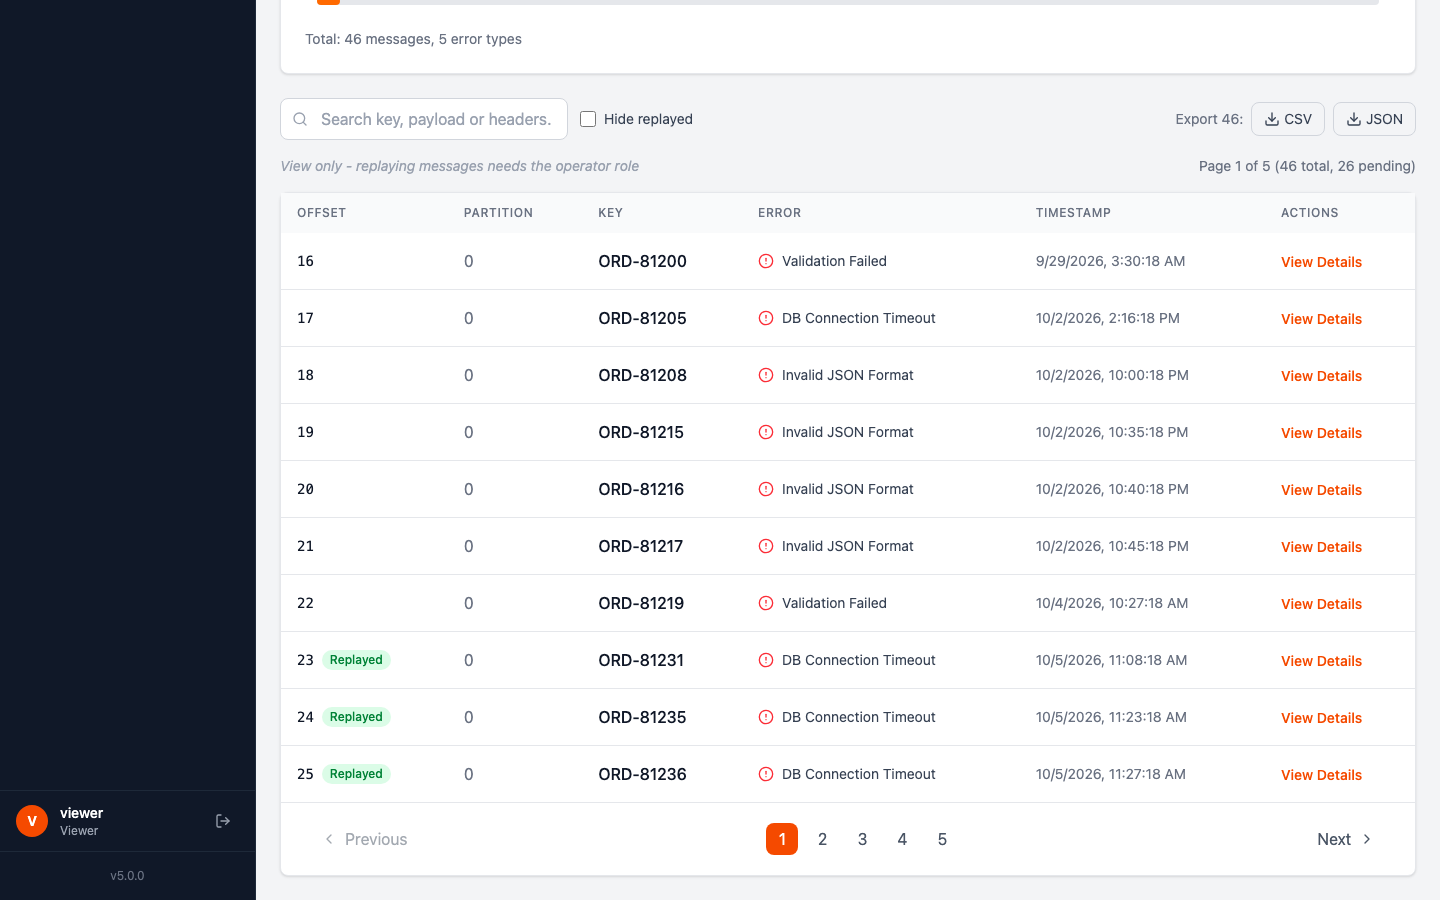
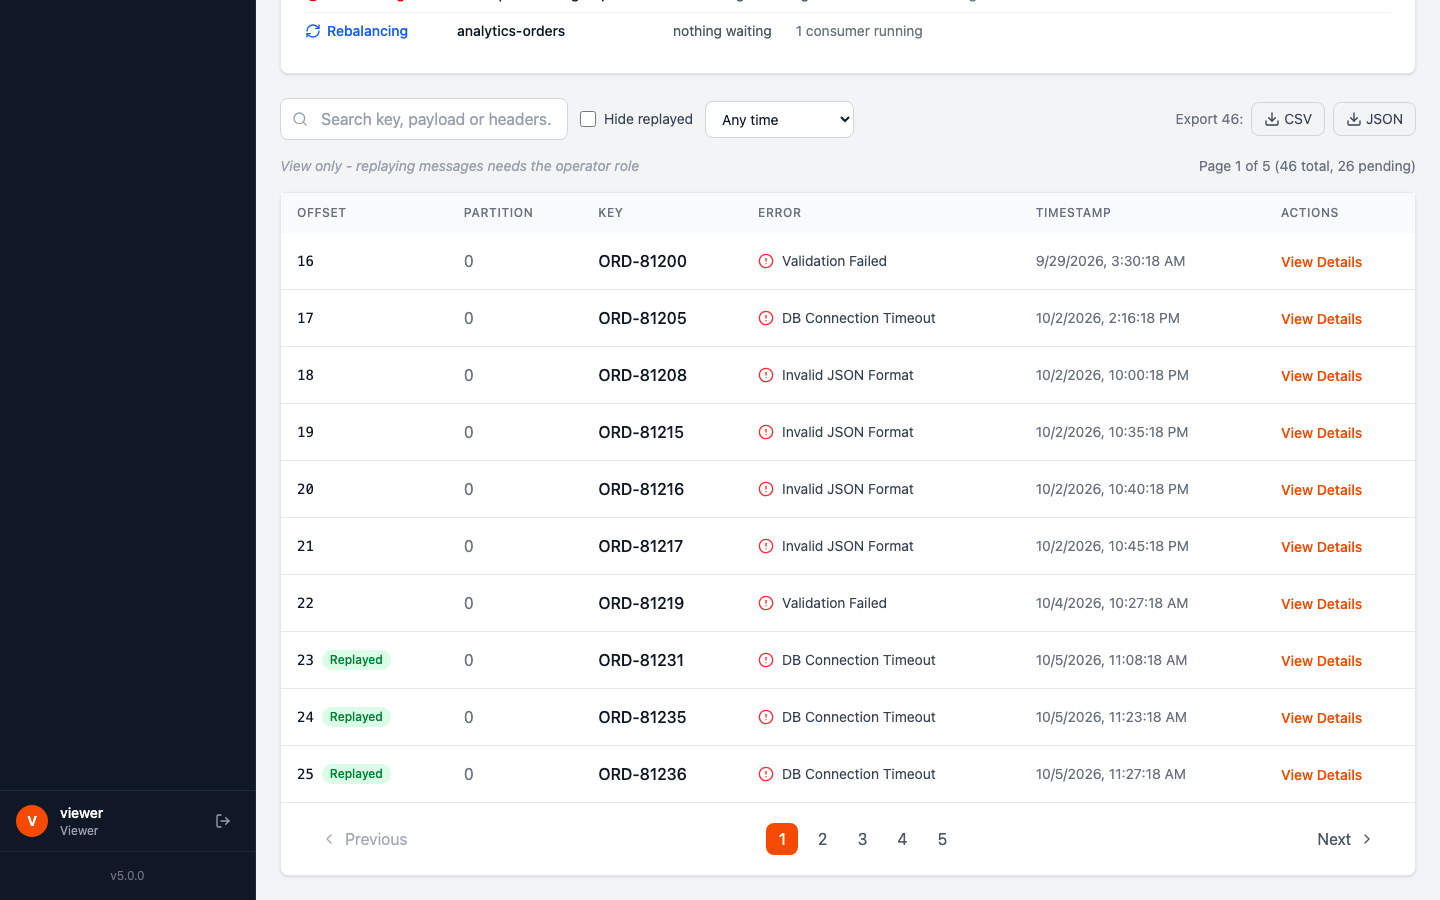
feat: time filter on the message list, click the trend chart to use it

Changed region(s): [[0.2188, 0.0, 0.9688, 0.0622], [0.5, 0.1244, 0.5312, 0.1556]]

diff --git a/frontend/src/pages/DlqTopicDetailPage.tsx b/frontend/src/pages/DlqTopicDetailPage.tsx
@@ -24,6 +24,40 @@ import {
   Download
 } from 'lucide-react';
 
+type TimePreset = 'any' | '1h' | '24h' | '7d' | 'custom';
+
+const TIME_PRESETS: { value: TimePreset; label: string; hours?: number }[] = [
+  { value: 'any', label: 'Any time' },
+  { value: '1h', label: 'Last hour', hours: 1 },
+  { value: '24h', label: 'Last 24 hours', hours: 24 },
+  { value: '7d', label: 'Last 7 days', hours: 24 * 7 },
+  { value: 'custom', label: 'Custom range...' },
+];
+
+const windowFormat = new Intl.DateTimeFormat(undefined, {
+  day: 'numeric', month: 'short', hour: '2-digit', minute: '2-digit', hourCycle: 'h23',
+});
+
+// "5 Oct, 11:00 – 5 Oct, 12:00", "since ..." or "before ..."
+function describeWindow(from: string | null, to: string | null): string {
+  if (from && to) return `${windowFormat.format(new Date(from))} – ${windowFormat.format(new Date(to))}`;
+  if (from) return `since ${windowFormat.format(new Date(from))}`;
+  return `before ${windowFormat.format(new Date(to!))}`;
+}
+
+// ISO time -> the value a datetime-local input wants (local time, no seconds)
+function toLocalInput(iso: string | null): string {
+  if (!iso) return '';
+  const date = new Date(iso);
+  const pad = (n: number) => String(n).padStart(2, '0');
+  return `${date.getFullYear()}-${pad(date.getMonth() + 1)}-${pad(date.getDate())}T${pad(date.getHours())}:${pad(date.getMinutes())}`;
+}
+
+function fromLocalInput(value: string): string | null {
+  const date = new Date(value);
+  return value && !Number.isNaN(date.getTime()) ? date.toISOString() : null;
+}
+
 export function DlqTopicDetailPage() {
   const { id } = useParams<{ id: string }>();
   const queryClient = useQueryClient();
@@ -40,7 +74,17 @@ export function DlqTopicDetailPage() {
   const [errorType, setErrorType] = useState<string | null>(null);
   const [pendingOnly, setPendingOnly] = useState(false);
   const searchTimer = useRef<number | undefined>(undefined);
-  const hasFilters = search !== '' || errorType !== null || pendingOnly;
+  // Time window on when a message landed in the DLQ (ISO times; null = open on that side)
+  const [timePreset, setTimePreset] = useState<TimePreset>('any');
+  const [timeFrom, setTimeFrom] = useState<string | null>(null);
+  const [timeTo, setTimeTo] = useState<string | null>(null);
+  const timeWindowInvalid = !!timeFrom && !!timeTo && timeFrom >= timeTo;
+  // A window that makes no sense is not sent; the bar says what is wrong instead
+  const from = timeWindowInvalid ? undefined : timeFrom ?? undefined;
+  const to = timeWindowInvalid ? undefined : timeTo ?? undefined;
+  const hasTimeWindow = timeFrom !== null || timeTo !== null;
+  const hasFilters = search !== '' || errorType !== null || pendingOnly || hasTimeWindow;
+  const filtersRef = useRef<HTMLDivElement>(null);
 
   // Who reads the source topic: checked before replaying, so nobody replays into a stopped service unawares
   const { data: sourceConsumers } = useSourceConsumers(id);
@@ -52,11 +96,13 @@ export function DlqTopicDetailPage() {
   });
 
   const { data: messagesData, isLoading, isFetching, refetch } = useQuery({
-    queryKey: ['dlqMessages', id, page, search, errorType, pendingOnly],
+    queryKey: ['dlqMessages', id, page, search, errorType, pendingOnly, from, to],
     queryFn: () => dlqTopicsApi.getMessages(id!, page, 10, {
       search,
       errorType: errorType ?? undefined,
       pendingOnly,
+      from,
+      to,
     }),
     enabled: !!id,
     // Keep showing the current page while the next one (or a new search) loads
@@ -80,6 +126,31 @@ export function DlqTopicDetailPage() {
     applyFilters(() => setErrorType(current => (current === type ? null : type)));
   };
 
+  const setTimeWindow = (preset: TimePreset, newFrom: string | null, newTo: string | null) => {
+    applyFilters(() => {
+      setTimePreset(preset);
+      setTimeFrom(newFrom);
+      setTimeTo(newTo);
+    });
+  };
+
+  const handleTimePresetChange = (preset: TimePreset) => {
+    const hours = TIME_PRESETS.find((p) => p.value === preset)?.hours;
+    if (hours) {
+      setTimeWindow(preset, new Date(Date.now() - hours * 3_600_000).toISOString(), null);
+    } else if (preset === 'custom') {
+      setTimeWindow('custom', timeFrom, timeTo); // keep what is set and show the two boxes
+    } else {
+      setTimeWindow('any', null, null);
+    }
+  };
+
+  // Clicking a period in the trend chart lists the messages that failed in it
+  const handleSelectPeriod = (periodFrom: Date, periodTo: Date) => {
+    setTimeWindow('custom', periodFrom.toISOString(), periodTo.toISOString());
+    filtersRef.current?.scrollIntoView({ behavior: 'smooth', block: 'start' });
+  };
+
   const clearFilters = () => {
     window.clearTimeout(searchTimer.current);
     setSearchInput('');
@@ -87,6 +158,9 @@ export function DlqTopicDetailPage() {
       setSearch('');
       setErrorType(null);
       setPendingOnly(false);
+      setTimePreset('any');
+      setTimeFrom(null);
+      setTimeTo(null);
     });
   };
 
@@ -214,7 +288,7 @@ export function DlqTopicDetailPage() {
         </Link>
 
         {/* Trend: pending messages and new failures over time */}
-        {id && <DlqTrendCard dlqTopicId={id} />}
+        {id && <DlqTrendCard dlqTopicId={id} onSelectPeriod={handleSelectPeriod} />}
 
         {/* Error Breakdown */}
         {errorBreakdown && errorBreakdown.errorBreakdown.length > 0 && (
@@ -272,7 +346,7 @@ export function DlqTopicDetailPage() {
         )}
 
         {/* Filters */}
-        <div className="flex flex-wrap items-center gap-3 mb-4">
+        <div ref={filtersRef} className="flex flex-wrap items-center gap-3 mb-4 scroll-mt-4">
           <div className="relative">
             <Search className="absolute left-3 top-1/2 -translate-y-1/2 w-4 h-4 text-gray-400 dark:text-gray-500" />
             <input
@@ -293,6 +367,51 @@ export function DlqTopicDetailPage() {
             />
             Hide replayed
           </label>
+
+          {/* When the message landed in the DLQ */}
+          <select
+            value={timePreset}
+            onChange={(e) => handleTimePresetChange(e.target.value as TimePreset)}
+            aria-label="Filter by time"
+            className="px-3 py-2 text-sm border border-gray-300 dark:border-gray-600 rounded-lg bg-white dark:bg-gray-700 text-gray-900 dark:text-white focus:ring-2 focus:ring-orange-500 focus:border-orange-500"
+          >
+            {TIME_PRESETS.map((preset) => (
+              <option key={preset.value} value={preset.value}>{preset.label}</option>
+            ))}
+          </select>
+
+          {timePreset === 'custom' && (
+            <span className="flex items-center gap-2 text-sm text-gray-500 dark:text-gray-400">
+              <input
+                type="datetime-local"
+                value={toLocalInput(timeFrom)}
+                onChange={(e) => setTimeWindow('custom', fromLocalInput(e.target.value), timeTo)}
+                aria-label="From"
+                className="px-2 py-1.5 text-sm border border-gray-300 dark:border-gray-600 rounded-lg bg-white dark:bg-gray-700 text-gray-900 dark:text-white [color-scheme:light] dark:[color-scheme:dark]"
+              />
+              to
+              <input
+                type="datetime-local"
+                value={toLocalInput(timeTo)}
+                onChange={(e) => setTimeWindow('custom', timeFrom, fromLocalInput(e.target.value))}
+                aria-label="To"
+                className="px-2 py-1.5 text-sm border border-gray-300 dark:border-gray-600 rounded-lg bg-white dark:bg-gray-700 text-gray-900 dark:text-white [color-scheme:light] dark:[color-scheme:dark]"
+              />
+            </span>
+          )}
+
+          {timeWindowInvalid && (
+            <span className="text-sm text-red-600 dark:text-red-400">The start must be before the end</span>
+          )}
+
+          {hasTimeWindow && !timeWindowInvalid && (
+            <span className="inline-flex items-center gap-1 px-3 py-1 text-sm rounded-full bg-orange-100 text-orange-800 dark:bg-orange-900/40 dark:text-orange-300">
+              Time: {describeWindow(timeFrom, timeTo)}
+              <button onClick={() => setTimeWindow('any', null, null)} title="Remove time filter">
+                <X className="w-3.5 h-3.5" />
+              </button>
+            </span>
+          )}
 
           {errorType && (
             <span className="inline-flex items-center gap-1 px-3 py-1 text-sm rounded-full bg-orange-100 text-orange-800 dark:bg-orange-900/40 dark:text-orange-300">
@@ -325,7 +444,7 @@ export function DlqTopicDetailPage() {
               {(['csv', 'json'] as const).map(format => (
                 <a
                   key={format}
-                  href={dlqTopicsApi.exportUrl(id, format, { search, errorType: errorType ?? undefined, pendingOnly })}
+                  href={dlqTopicsApi.exportUrl(id, format, { search, errorType: errorType ?? undefined, pendingOnly, from, to })}
                   download
                   title={`Download as ${format.toUpperCase()}`}
                   className="flex items-center gap-1 px-3 py-1.5 text-sm border border-gray-300 dark:border-gray-600 rounded-lg text-gray-700 dark:text-gray-300 hover:bg-gray-50 dark:hover:bg-gray-700"

diff --git a/frontend/src/components/trend/DlqTrendCard.tsx b/frontend/src/components/trend/DlqTrendCard.tsx
@@ -38,7 +38,11 @@ function periodLabel(point: TrendPoint, bucketMinutes: number): string {
  * Pending messages and new failures over the last day or week, for one DLQ.
  * Two small charts instead of one with two scales: the numbers mean different things.
  */
-export function DlqTrendCard({ dlqTopicId }: { dlqTopicId: string }) {
+export function DlqTrendCard({ dlqTopicId, onSelectPeriod }: {
+  dlqTopicId: string;
+  // Called with the start and end of a period when it is clicked (or Enter is pressed on it)
+  onSelectPeriod?: (from: Date, to: Date) => void;
+}) {
   const [range, setRange] = useState<TrendRangeCode>('24h');
   const [showTable, setShowTable] = useState(false);
   const [hover, setHover] = useState<Hover>(null);
@@ -57,6 +61,11 @@ export function DlqTrendCard({ dlqTopicId }: { dlqTopicId: string }) {
   const newInRange = points.reduce((sum, point) => sum + (point.newMessages ?? 0), 0);
   const rangeLabel = RANGES.find((r) => r.code === range)!.label;
   const perPeriod = bucketMinutes === 60 ? 'per hour' : `per ${bucketMinutes / 60} hours`;
+
+  const selectPoint = onSelectPeriod && ((point: TrendPoint) => {
+    const from = new Date(point.time);
+    onSelectPeriod(from, new Date(from.getTime() + bucketMinutes * 60_000));
+  });
 
   const toggleClass = (active: boolean) =>
     `px-3 py-1 text-xs font-medium rounded-md transition-colors ${
@@ -116,7 +125,7 @@ export function DlqTrendCard({ dlqTopicId }: { dlqTopicId: string }) {
             </p>
             <TrendPlot
               points={points} measure="pending" range={range} bucketMinutes={bucketMinutes}
-              hover={hover} onHover={setHover}
+              hover={hover} onHover={setHover} onSelect={selectPoint}
             />
           </div>
           <div>
@@ -128,9 +137,14 @@ export function DlqTrendCard({ dlqTopicId }: { dlqTopicId: string }) {
             </p>
             <TrendPlot
               points={points} measure="newMessages" range={range} bucketMinutes={bucketMinutes}
-              hover={hover} onHover={setHover}
+              hover={hover} onHover={setHover} onSelect={selectPoint}
             />
           </div>
+          {selectPoint && (
+            <p className="lg:col-span-2 -mt-3 text-xs text-gray-400 dark:text-gray-500">
+              Click a period to list the messages that failed in it.
+            </p>
+          )}
         </div>
       )}
     </div>
@@ -139,13 +153,14 @@ export function DlqTrendCard({ dlqTopicId }: { dlqTopicId: string }) {
 
 // ---- One chart ----
 
-function TrendPlot({ points, measure, range, bucketMinutes, hover, onHover }: {
+function TrendPlot({ points, measure, range, bucketMinutes, hover, onHover, onSelect }: {
   points: TrendPoint[];
   measure: Measure;
   range: TrendRangeCode;
   bucketMinutes: number;
   hover: Hover;
   onHover: (hover: Hover) => void;
+  onSelect?: (point: TrendPoint) => void;
 }) {
   const [containerRef, width] = useWidth<HTMLDivElement>();
 
@@ -171,6 +186,7 @@ function TrendPlot({ points, measure, range, bucketMinutes, hover, onHover }: {
     if (event.key === 'ArrowLeft') onHover({ index: Math.max(0, current - 1), source: measure });
     else if (event.key === 'ArrowRight') onHover({ index: Math.min(points.length - 1, current + 1), source: measure });
     else if (event.key === 'Escape') onHover(null);
+    else if (event.key === 'Enter' && onSelect && points[current]) onSelect(points[current]);
     else return;
     event.preventDefault();
   };
@@ -183,8 +199,9 @@ function TrendPlot({ points, measure, range, bucketMinutes, hover, onHover }: {
           height={HEIGHT}
           tabIndex={0}
           role="img"
-          aria-label={`${measure === 'pending' ? 'Pending messages' : 'New failures'}, last ${range === '24h' ? '24 hours' : '7 days'}. Use the left and right arrow keys to read each point.`}
-          className="block focus:outline-none focus-visible:ring-2 focus-visible:ring-orange-500 rounded"
+          aria-label={`${measure === 'pending' ? 'Pending messages' : 'New failures'}, last ${range === '24h' ? '24 hours' : '7 days'}. Use the left and right arrow keys to read each point${onSelect ? ', Enter to list its messages' : ''}.`}
+          className={`block focus:outline-none focus-visible:ring-2 focus-visible:ring-orange-500 rounded ${onSelect ? 'cursor-pointer' : ''}`}
+          onClick={(event) => onSelect?.(points[indexAt(event.clientX, event.currentTarget)])}
           onPointerMove={(event: PointerEvent<SVGSVGElement>) =>
             onHover({ index: indexAt(event.clientX, event.currentTarget), source: measure })}
           onPointerLeave={() => onHover(null)}

diff --git a/frontend/src/api/dlqTopics.ts b/frontend/src/api/dlqTopics.ts
@@ -40,6 +40,8 @@ export const dlqTopicsApi = {
         search: filters.search || undefined,
         errorType: filters.errorType || undefined,
         pendingOnly: filters.pendingOnly || undefined,
+        from: filters.from || undefined,
+        to: filters.to || undefined,
       },
     });
     // Transform backend response to match frontend types
@@ -99,6 +101,8 @@ export const dlqTopicsApi = {
     if (filters.search) params.set('search', filters.search);
     if (filters.errorType) params.set('errorType', filters.errorType);
     if (filters.pendingOnly) params.set('pendingOnly', 'true');
+    if (filters.from) params.set('from', filters.from);
+    if (filters.to) params.set('to', filters.to);
     return `${apiClient.defaults.baseURL ?? ''}/api/dlq-topics/${id}/messages/export?${params.toString()}`;
   },
 };

diff --git a/frontend/src/types/index.ts b/frontend/src/types/index.ts
@@ -44,6 +44,8 @@ export interface MessageFilters {
   search?: string;
   errorType?: string;
   pendingOnly?: boolean;
+  from?: string; // ISO time: only messages that landed in the DLQ at or after it
+  to?: string;   // ISO time: only messages that landed before it
 }
 
 // Error breakdown types

diff --git a/backend/src/main/java/com/dlqmanager/service/DlqTrendService.java b/backend/src/main/java/com/dlqmanager/service/DlqTrendService.java
@@ -28,6 +28,9 @@ import java.util.UUID;
  *                 messages failed into the DLQ in that time (replays don't lower it)
  * A bucket without samples (app stopped, topic added later) has no values, so the
  * chart shows a gap instead of a made-up zero.
+ *
+ * Samples are a minute apart, so a message is counted in the minute it was first seen:
+ * one that arrives seconds before the hour can show up in the next hour's count.
  */
 @Service
 @RequiredArgsConstructor

diff --git a/README.md b/README.md
@@ -27,7 +27,7 @@ This project started as a weekend experiment and has grown into a full platform 
 
 ## What it does
 
-- **Browse** failed messages across all your DLQ topics, paginated
+- **Browse** failed messages across all your DLQ topics, paginated — search them, filter by error type or by when they failed, or click a period on the trend chart to list its messages
 - **Analyze** error patterns with a per-topic error breakdown, and see whether a DLQ is growing or shrinking on a 24-hour / 7-day trend chart
 - **Replay** single or bulk messages back to the source topic, and see first whether the services reading that topic are running and keeping up (consumer lag) — with a warning before replaying into one that isn't
 - **Track** every replay operation with a full audit trail
@@ -227,6 +227,7 @@ CI runs the full backend suite plus frontend lint and build on every push.
 ![Trend: pending messages and new failures per hour](assets/33-topic-trend.png)
 ![Trend over 7 days (Dark)](assets/34-dark-topic-trend.png)
 ![Where replays go: consumers of the source topic and their lag](assets/35-source-consumers.png)
+![Messages from one hour, picked by clicking the trend chart](assets/36-time-filter.png)
 ![Filtered by error type, replayed messages hidden](assets/27-search-filter.png)
 ![Message Detail](assets/05-message-detail-modal.png)
 ![Message Browser Dark](assets/31-dark-topic-detail.png)
@@ -294,7 +295,7 @@ All other endpoints need a session (the web UI) or HTTP Basic credentials (scrip
 | `POST` | `/api/dlq-topics` | Register new DLQ topic |
 | `PUT` | `/api/dlq-topics/{id}` | Update DLQ configuration |
 | `DELETE` | `/api/dlq-topics/{id}` | Delete DLQ registration |
-| `GET` | `/api/dlq-topics/{id}/messages` | Browse messages (paginated; optional `search`, `errorType`, `pendingOnly` filters) |
+| `GET` | `/api/dlq-topics/{id}/messages` | Browse messages (paginated; optional `search`, `errorType`, `pendingOnly`, `from`, `to` filters) |
 | `GET` | `/api/dlq-topics/{id}/messages/export` | Download messages as `format=csv` or `format=json` (same filters) |
 | `GET` | `/api/dlq-topics/{id}/error-breakdown` | Error type statistics |
 | `GET` | `/api/dlq-topics/{id}/trend` | Pending messages and new failures over time (`range=24h` or `7d`) |

diff --git a/TODO.md b/TODO.md
@@ -56,7 +56,7 @@
 ### Message Management
 - [x] Search messages by key, payload, or headers
 - [x] Filter by error type or replay status
-- [ ] Filter by date range
+- [x] Filter by time window (quick picks, custom range, or click a period on the trend chart)
 - [x] Export messages to JSON/CSV
 - [ ] Archive/delete messages from DLQ
 
